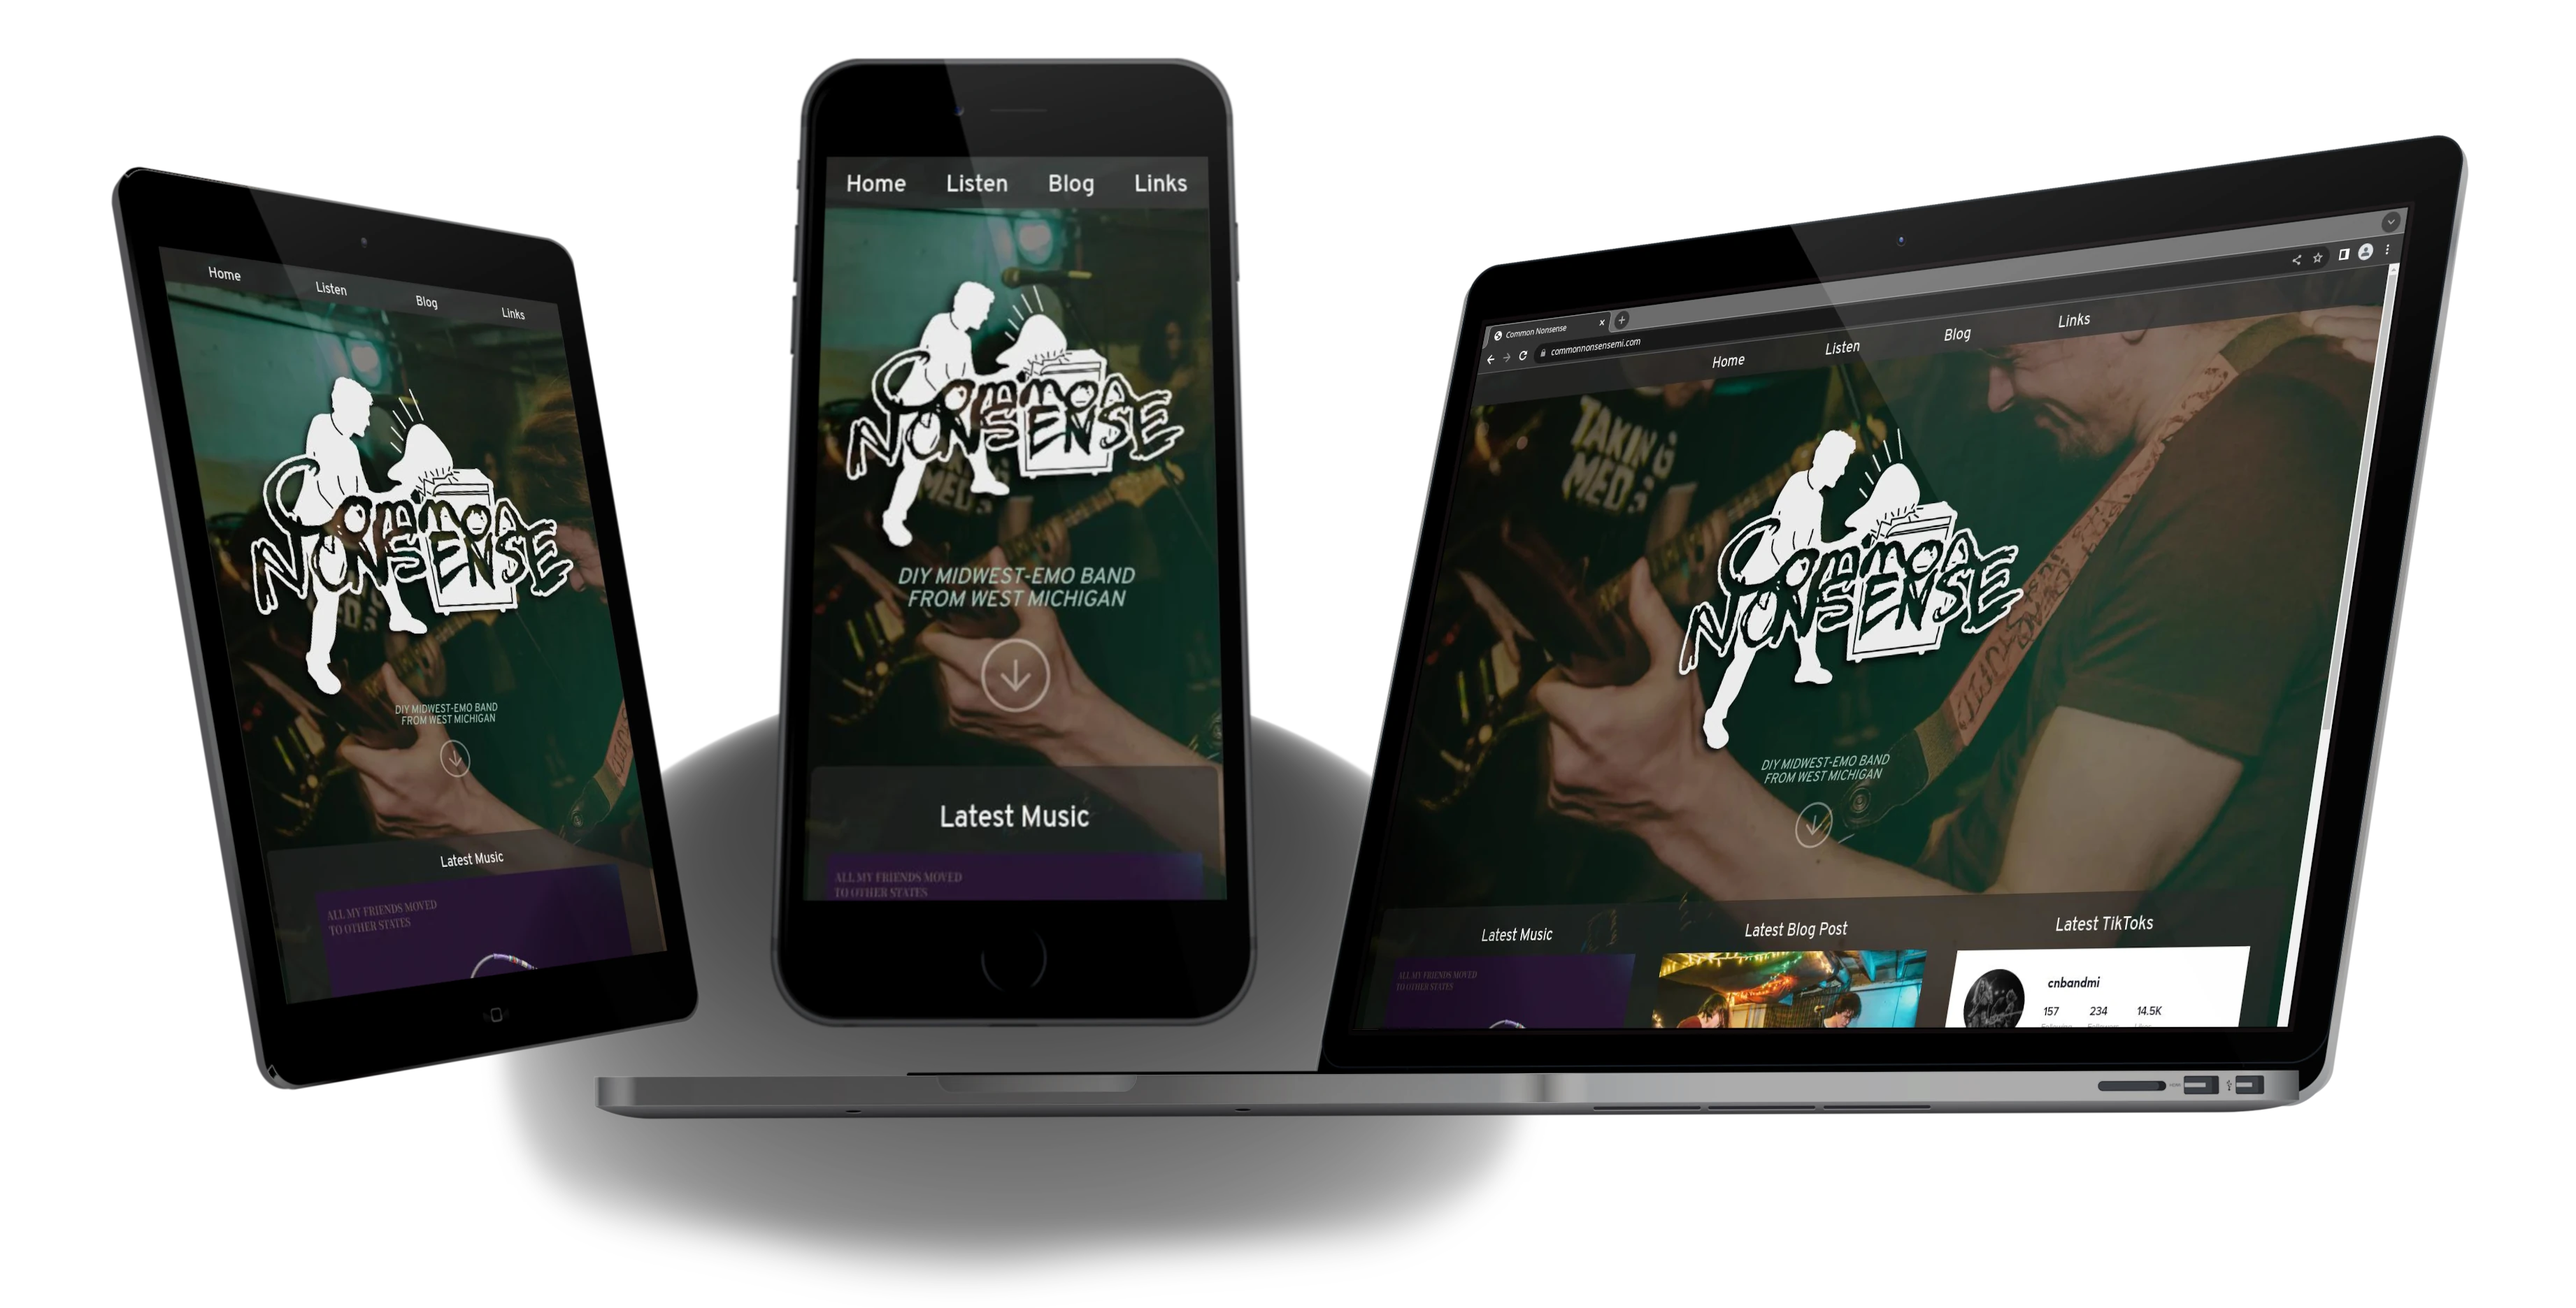
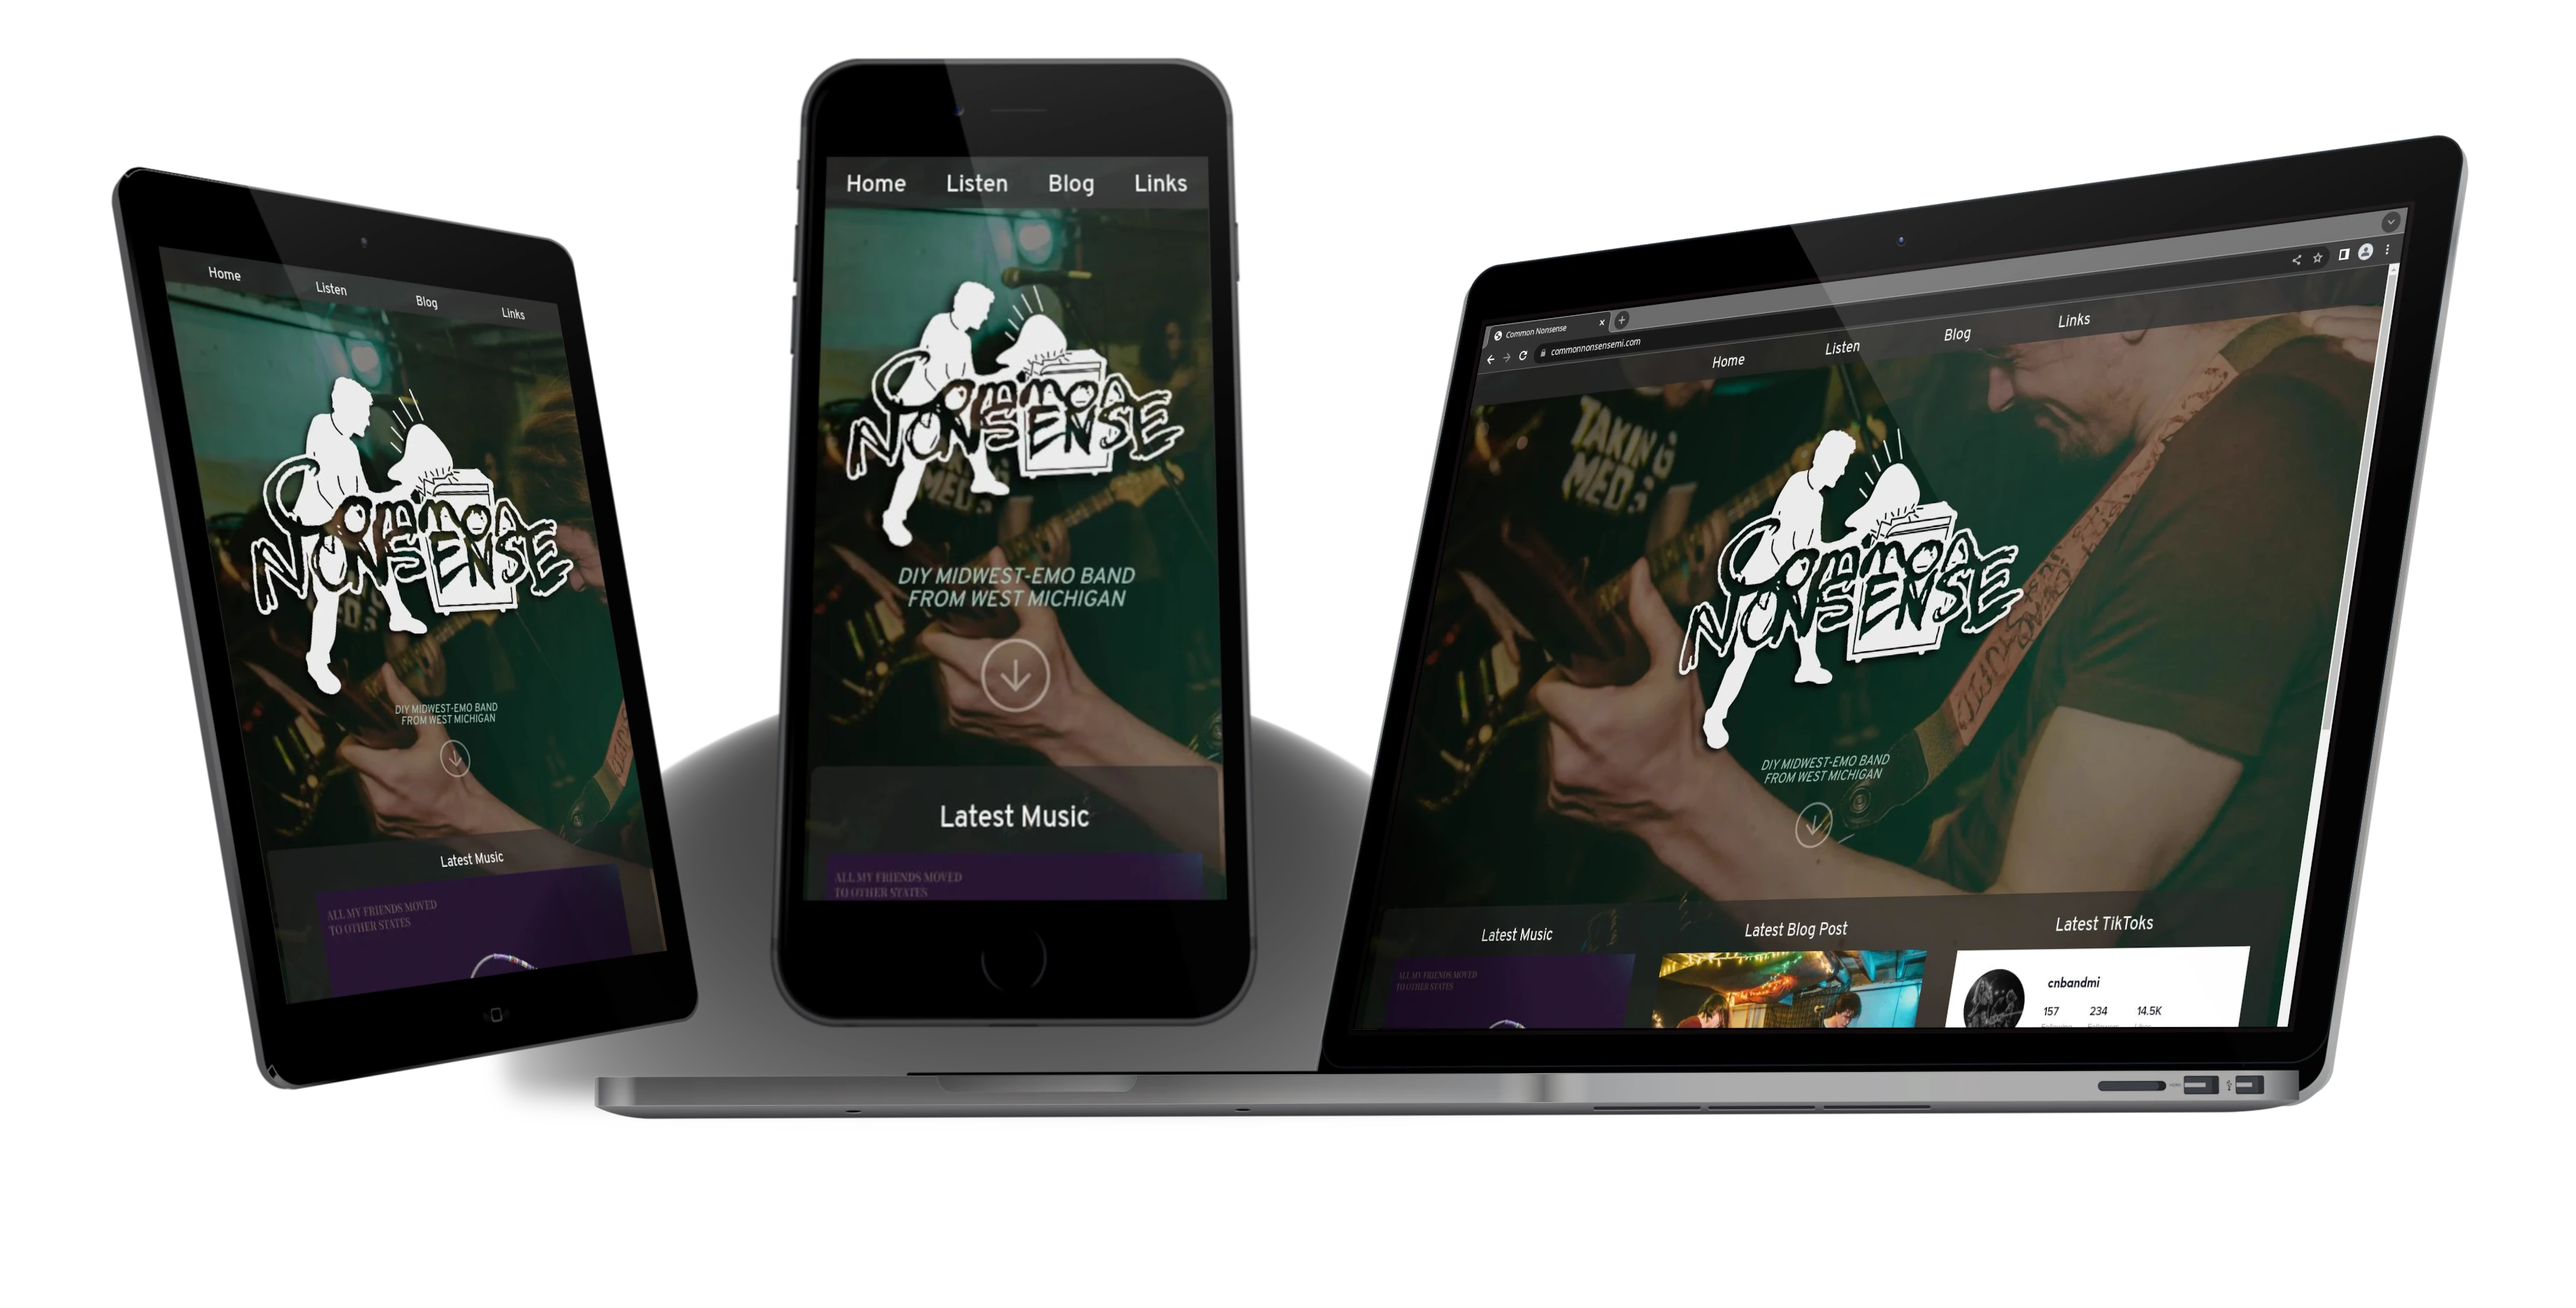
work on single layout, updates to header

Changed region(s): [[0.1873, 0.8365, 0.5931, 0.9915]]

diff --git a/layouts/projects/single.html b/layouts/projects/single.html
@@ -1,15 +1,21 @@
 {{ define "main" }}
     {{ "<!-- layouts/projects/single.html -->" | safeHTML }}
-    <h1>{{.Title}}</h1>
-    <ul>
-        <li>
-            View this project on <a target="_blank" href="{{ .Params.github }}">Github</a>
-        </li>
-        {{ with .Params.liveDemo }}
-            <li>
-                View this project live at: <a target="_blank" href="{{ . }}">{{ . }}</a>
-            </li>
-        {{ end }}
-    </ul>
-    {{ .Content }}
+    <section class="py-4">
+        <div class="container-xxl">
+            <h1 class="ms-3">{{.Title}}</h1>
+            <ul class="list-unstyled ms-4">
+                <li>
+                    View this project on <a target="_blank" href="{{ .Params.github }}">Github</a>
+                </li>
+                {{ with .Params.liveDemo }}
+                    <li>
+                        View this project live at: <a target="_blank" href="{{ . }}">{{ . }}</a>
+                    </li>
+                {{ end }}
+            </ul>
+            <article class="markdown">
+                {{ .Content }}
+            </article>
+        </div>
+    </section>
 {{ end }}

diff --git a/assets/scss/styles.scss b/assets/scss/styles.scss
@@ -67,3 +67,38 @@ $utilities: map-merge(
 main > section:nth-child(even) {
     @extend .bg-dark-subtle;
 }
+
+.show .navbar-nav > li {
+    border-bottom: 1px solid $gray-900;
+    border-top: 1px solid $gray-900;
+}
+
+article.markdown {
+    @extend .bg-dark-subtle;
+    @extend .p-4;
+    @extend .fs-5;
+}
+
+article.markdown img {
+    max-height: 800px;
+    max-width: Min(650px, 100%);
+    width: auto;
+}
+
+.img-wrapper {
+    max-width: Min(650px, 100%);
+    width: fit-content;
+    border-radius: 1rem;
+    background-color: rgba(0, 0, 0, 0.2);
+    @extend .me-md-4;
+    @extend .mb-4;
+    @extend .d-flex;
+    @extend .flex-column;
+    @extend .align-items-center;
+    @extend .text-body-secondary;
+    @extend .fs-6;
+}
+
+article.markdown p {
+    @extend .text-body-secondary;
+}

diff --git a/layouts/partials/header.html b/layouts/partials/header.html
@@ -19,11 +19,11 @@
             </button>
             <div class="collapse navbar-collapse" id="navbarSupportedContent">
                 <ul class="navbar-nav nav-underline">
-                    <li class="nav-item">
+                    <li class="nav-item text-center">
                         <a class="nav-link" href="/">Home</a>
                     </li>
                     {{ range .Site.Sections }}
-                        <li class="nav-item">
+                        <li class="nav-item text-center">
                             <a class="nav-link" href="{{ .RelPermalink }}">{{ .Title }}</a>
                         </li>
                     {{ end }}

diff --git a/layouts/_default/_markup/render-image.html b/layouts/_default/_markup/render-image.html
@@ -1,0 +1,8 @@
+{{ $img := .Page.Resources.Get .Destination }}
+{{ $img := $img.Fit "800x800 webp" }}
+<div class="img-wrapper">
+    <img src="{{ $img.RelPermalink }}" alt="{{ .Text }}"/>
+    {{ with .Title }}
+        <span class="p-2">{{ . | markdownify }}</span>
+    {{ end }}
+</div>

diff --git a/content/projects/sudoku-solver/index.md b/content/projects/sudoku-solver/index.md
@@ -9,10 +9,10 @@ This is a program that can solve any valid sudoku puzzle. It is written in Pytho
 
 A typical sudoku puzzle has only one solution and this program will find it. However, it is possible to give the program a puzzle that has multiple solutions. In this case, the program will stop at the first solution it finds and display it to you. Finally, it is possible to give the program a puzzle that does not have any solutions. In this case, the program will notify you that no solutions exist and leave the puzzle as you input it.
 
-![sudoku solver with no input](empty.PNG)
-![sudoku solver with an unsolved puzzle](before-solve.PNG)
-![sudoku solver with a solved puzzle](after-solve.PNG)
-![sudoku solver showing no-solutions message](no-solutions.PNG)
+![sudoku solver with no input](empty.PNG "This is the app when you open it before any input.")
+![sudoku solver with an unsolved puzzle](before-solve.PNG "Example of a puzzle entered into the app")
+![sudoku solver with a solved puzzle](after-solve.PNG "After clicking solve, if the app is able to solve the puzzle, it displays it like this.")
+![sudoku solver showing no-solutions message](no-solutions.PNG "If there are no solutions to the puzzle, the app will display this message." )
 
 ## Algorithms
 
